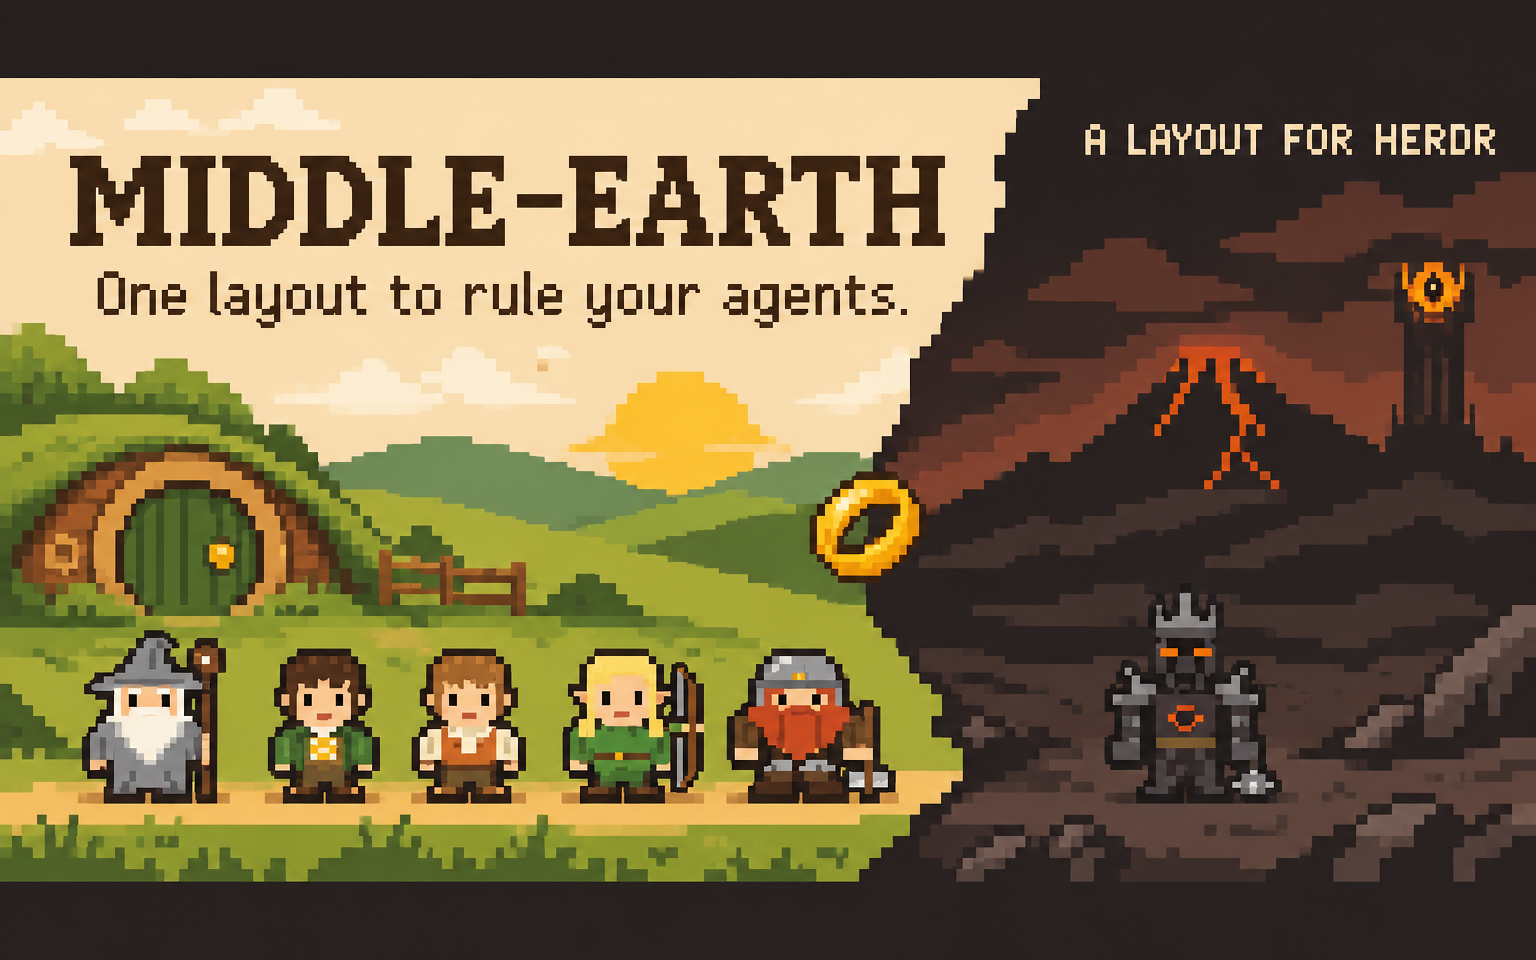
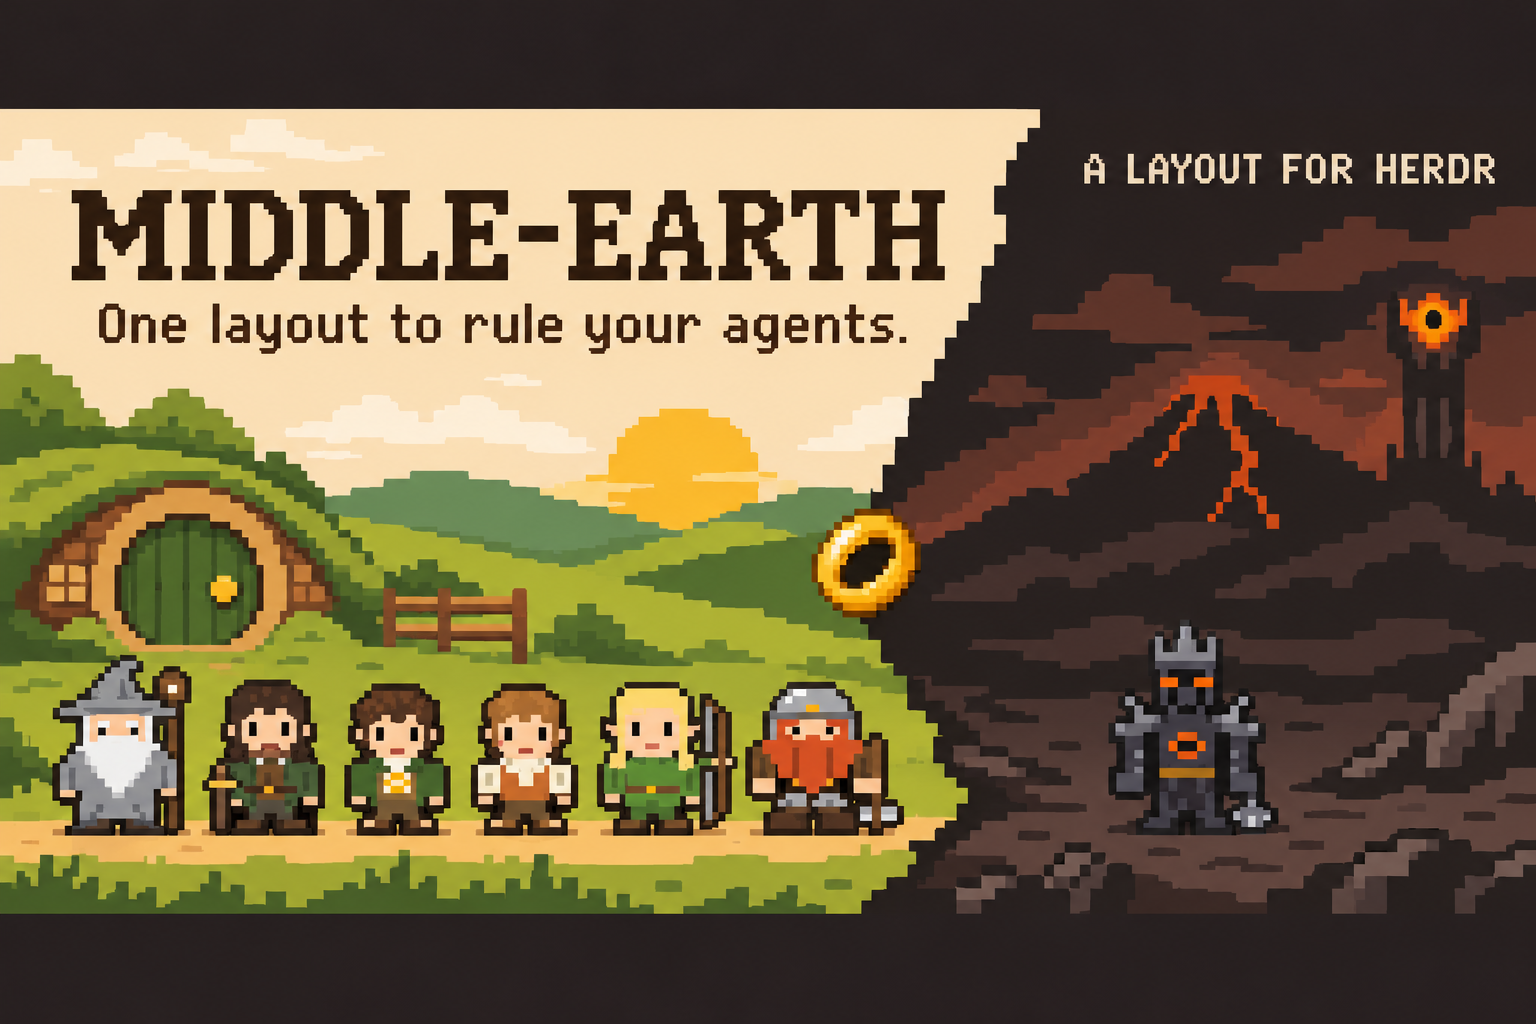
Start the cast over once every character is taken
When every member was taken, a new agent always got Gandalf: the
fallback indexed the pool by the count of distinct names, which never
grows past its length. A new agent now gets the least-used member,
first in order on a tie, so the cast repeats as a whole.

The gallery preview is redrawn with Aragorn in it.

diff --git a/mods/fellowship/main.js b/mods/fellowship/main.js
@@ -4,6 +4,7 @@ import { View, div, image, svg } from "gpui-kit";
 import { v_flex, h_flex } from "gpui-base";
 import { agents, settings, terminals, panes, focused, spaces, run, theme, shared, setShared, setAgentOrder, openOverlay, closeOverlay, props, window, layout, hc, checking } from "herdr";
 import { parseContext, parseModel } from "./agent-stats.js";
+import { pickHero } from "./casting.js";
 
 function find(node, id) {
   if (node?.id === id) return node;
@@ -127,9 +128,9 @@ function castFor(list, all) {
   for (const a of list) {
     const current = cast[a.address];
     if (current === DARK_LORD || CAST.includes(current)) continue;
-    const taken = new Set(list.map((b) => cast[b.address]).filter(Boolean));
+    const heroes = list.map((b) => cast[b.address]).filter(Boolean);
     const pool = settings().dark ? [DARK_LORD, ...CAST] : CAST;
-    cast[a.address] = pool.find((c) => !taken.has(c)) ?? pool[taken.size % pool.length];
+    cast[a.address] = pickHero(pool, heroes);
     changed = true;
   }
   if (changed) setShared(CAST_KEY, cast);

diff --git a/tests/casting.test.js b/tests/casting.test.js
@@ -1,0 +1,21 @@
+// Run with: node --test tests/casting.test.js
+import { test } from "node:test";
+import assert from "node:assert/strict";
+import { pickHero } from "../mods/fellowship/casting.js";
+
+const CAST = ["gandalf", "aragorn", "frodo", "sam", "legolas", "gimli"];
+
+test("first free character", () => {
+  assert.equal(pickHero(CAST, []), "gandalf");
+  assert.equal(pickHero(CAST, ["gandalf", "frodo"]), "aragorn");
+});
+
+test("starts over when everyone is cast", () => {
+  assert.equal(pickHero(CAST, CAST), "gandalf");
+  assert.equal(pickHero(CAST, [...CAST, "gandalf"]), "aragorn");
+  assert.equal(pickHero(CAST, [...CAST, "gandalf", "aragorn"]), "frodo");
+});
+
+test("fills a gap left by a closed agent before repeating", () => {
+  assert.equal(pickHero(CAST, [...CAST, "gandalf", "aragorn"].filter((h) => h !== "sam")), "sam");
+});

diff --git a/mods/fellowship/casting.js b/mods/fellowship/casting.js
@@ -1,0 +1,5 @@
+// The least-cast character, first in pool order on a tie: free ones go first, then the cast starts over.
+export function pickHero(pool, heroes) {
+  const uses = (hero) => heroes.filter((h) => h === hero).length;
+  return pool.reduce((best, hero) => (uses(hero) < uses(best) ? hero : best));
+}

diff --git a/RECIPE.md b/RECIPE.md
@@ -29,7 +29,7 @@ Program icons: Claude Code keeps its orange creature, now holding a gold ring. T
 
 ## How it behaves
 
-- **Casting.** A new agent takes the first free member of Gandalf, Aragorn, Frodo, Sam, Legolas and Gimli. If the system is dark when the agent appears, Sauron is offered first. If a Sauron is already active, the next free member is taken. The choice is kept per terminal address in shared `fellowship.cast`, so the character survives restarts and later theme changes. When all members are taken, names repeat in order.
+- **Casting.** A new agent takes the first free member of Gandalf, Aragorn, Frodo, Sam, Legolas and Gimli. If the system is dark when the agent appears, Sauron is offered first. If a Sauron is already active, the next free member is taken. The choice is kept per terminal address in shared `fellowship.cast`, so the character survives restarts and later theme changes. When every member is taken, the cast starts over from the top: the next agent gets the least-used member, first in order on a tie.
 - **Working:** the character fights. Two frames swap every 800ms:
   - Gandalf: sparks burst from his staff.
   - Aragorn: draws his sword from its scabbard and thrusts.
